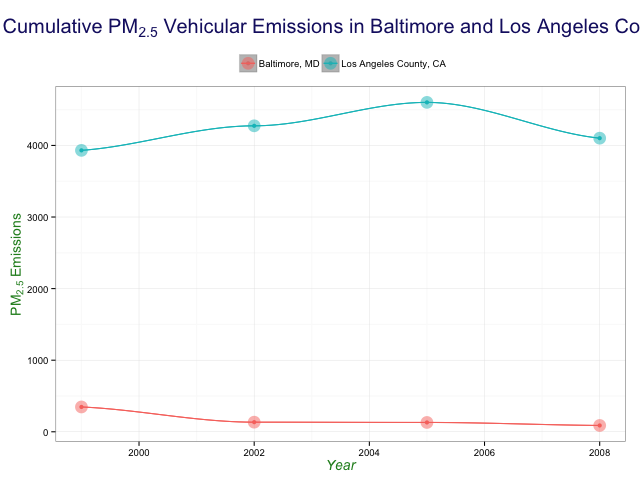
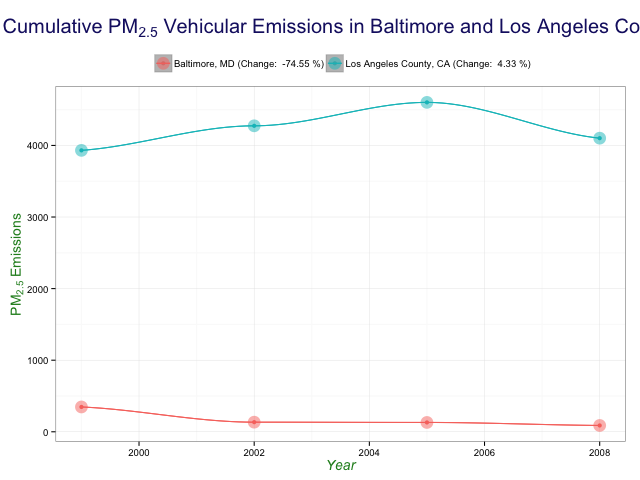
Modified legend to display percentage change over the time period.

Changed region(s): [[0.2188, 0.0938, 0.8438, 0.1562]]

diff --git a/README.html b/README.html
@@ -55,16 +55,22 @@ if (window.hljs && document.readyState && document.readyState === "complete") {
 
 <hr />
 <p>Have total emissions from PM2.5 decreased in the United States from 1999 to 2008? Using the base plotting system, make a plot showing the total PM2.5 emission from all sources for each of the years 1999, 2002, 2005, and 2008.</p>
+<p>Conclusion - Total emission has reduced between 1999 and 2008. There is a precipitous drop between 1999 and 2002, and again between 2005 and 2008</p>
 <hr />
 <p>Have total emissions from PM2.5 decreased in the Baltimore City, Maryland (fips == “24510”) from 1999 to 2008? Use the base plotting system to make a plot answering this question.</p>
+<p>Conclusion - Total emission has reduced, but there was an increase in the intervening period from 2002 to 2005.</p>
 <hr />
 <p>Of the four types of sources indicated by the type (point, nonpoint, onroad, nonroad) variable, which of these four sources have seen decreases in emissions from 1999???2008 for Baltimore City? Which have seen increases in emissions from 1999???2008? Use the ggplot2 plotting system to make a plot answer this question.</p>
+<p>Conclusion - Road, nonroad, nonpoint types have decreased over the period 1999 through 2008, while PM2.5 emissions of type point have increased in the same period for Baltimore City.</p>
 <hr />
 <p>Across the United States, how have emissions from coal combustion-related sources changed from 1999???2008?</p>
+<p>Conclusion - Total emissions from coal combustion sources, across the United States, have reduced overall between 1999-2009. There was a slight increase between 2002 and 2005.</p>
 <hr />
 <p>How have emissions from motor vehicle sources changed from 1999???2008 in Baltimore City?</p>
+<p>Conclusion - Cumulative (PM2.5) emissions from motor vehicle sources have decreased between 1999 and 2008</p>
 <hr />
 <p>Compare emissions from motor vehicle sources in Baltimore City with emissions from motor vehicle sources in Los Angeles County, California (fips == “06037”). Which city has seen greater changes over time in motor vehicle emissions?</p>
+<p>Conclusion - Emissions from motor vehicle sources have decreased in Baltimore City by over 74% while they have increased in Los Angeles County by about 4%.</p>
 
 
 </div>

diff --git a/README.md b/README.md
@@ -34,3 +34,6 @@ How have emissions from motor vehicle sources changed from 1999???2008 in Baltim
 
 ***
 Compare emissions from motor vehicle sources in Baltimore City with emissions from motor vehicle sources in Los Angeles County, California (fips == "06037"). Which city has seen greater changes over time in motor vehicle emissions?
+
+ Conclusion - Emissions from motor vehicle sources have decreased in Baltimore City by over 74% while they have increased in Los Angeles County by about 4%.
+ 
